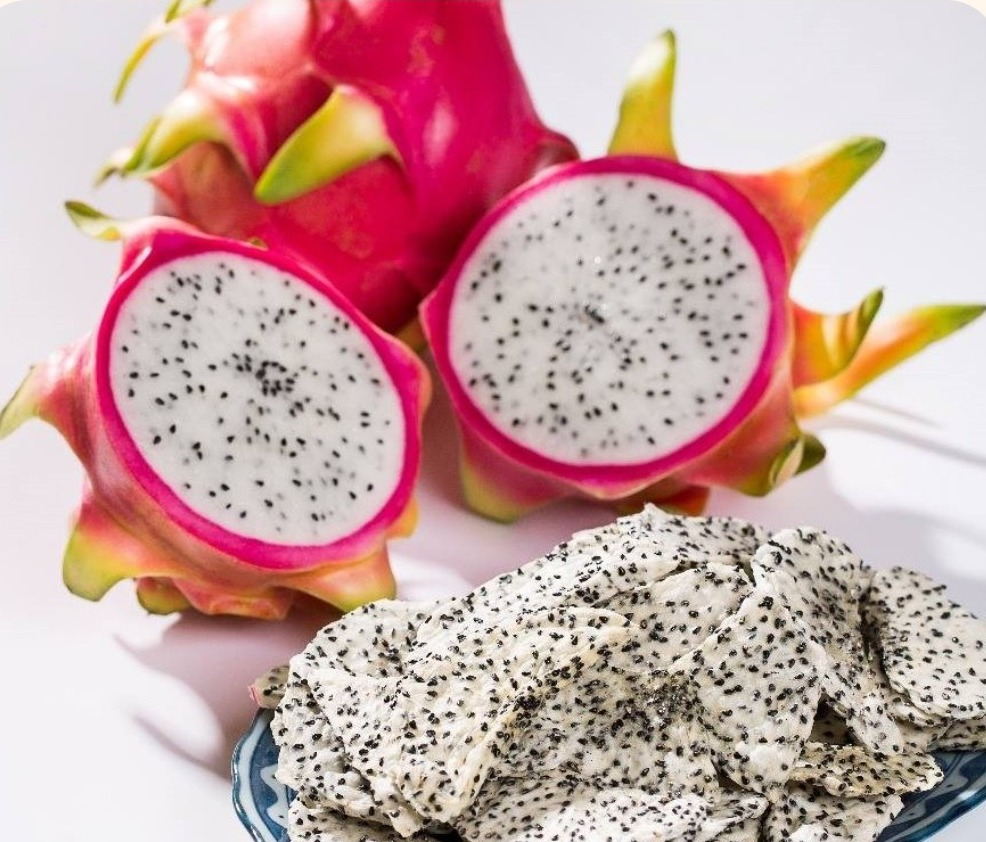
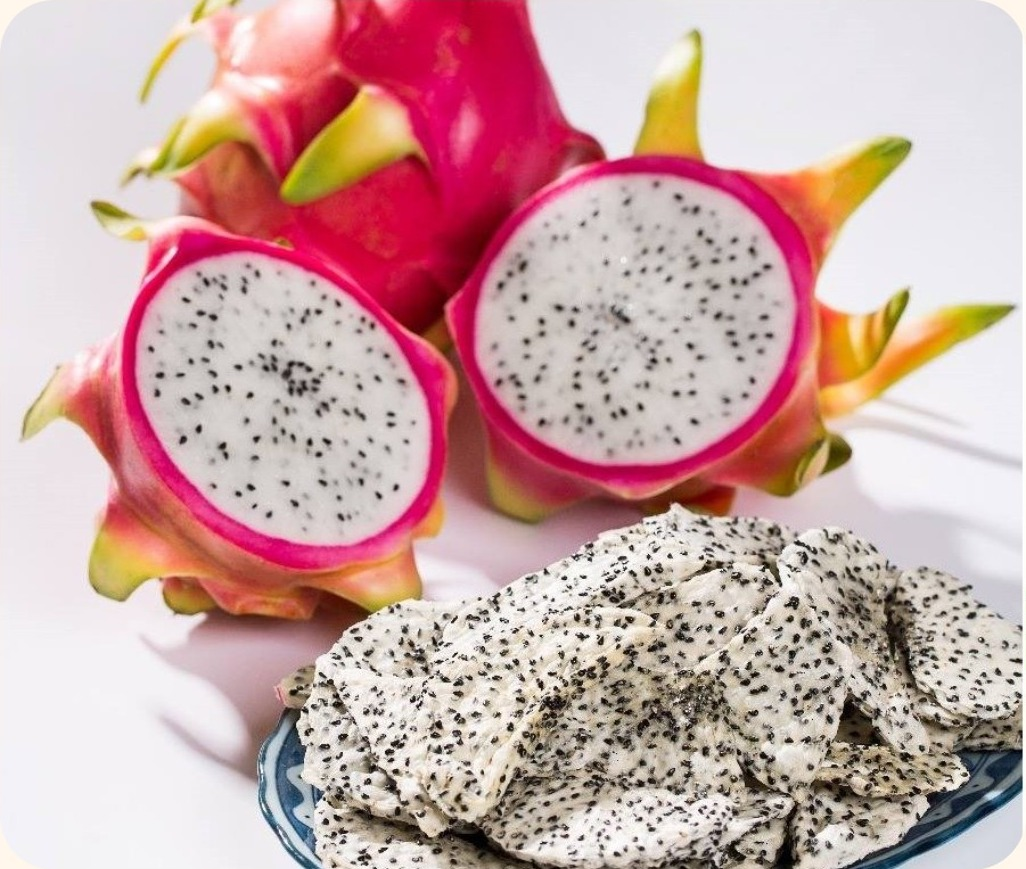
fix(hero): restore brochure page 1 landscape image ratio and framing

diff --git a/src/styles/global.css b/src/styles/global.css
@@ -763,7 +763,7 @@ h1, h2, h3, h4, h5, h6 {
 
 .hero-grid {
   display: grid;
-  grid-template-columns: minmax(0, 47.5fr) minmax(0, 52.5fr);
+  grid-template-columns: minmax(0, 46fr) minmax(0, 54fr);
   gap: var(--content-gap);
   align-items: center;
   position: relative;
@@ -1202,20 +1202,26 @@ h1, h2, h3, h4, h5, h6 {
 
 .hero-dual-photos {
   display: grid;
-  grid-template-columns: repeat(2, 1fr);
-  gap: clamp(20px, 1.8vw, 28px);
+  grid-template-columns: repeat(2, minmax(0, 1fr));
+  gap: clamp(16px, 1.6vw, 24px);
   align-items: stretch;
   width: 100%;
 }
 
 .hero-photo-tile {
   position: relative;
-  border-radius: 20px;
+  border-radius: clamp(20px, 1.6vw, 24px);
   overflow: hidden;
-  border: 5px solid var(--white);
+  border: 4px solid var(--white);
   box-shadow: 0 18px 38px -10px rgba(58, 36, 23, 0.16), 0 6px 14px -4px rgba(58, 36, 23, 0.08);
   background-color: var(--soft-beige);
-  aspect-ratio: 4 / 5;
+  aspect-ratio: 1026 / 869;
+  transition: transform var(--transition-base), box-shadow var(--transition-base);
+}
+
+.hero-photo-tile:hover {
+  transform: translateY(-2px);
+  box-shadow: 0 22px 44px -10px rgba(58, 36, 23, 0.2), 0 8px 18px -4px rgba(58, 36, 23, 0.1);
 }
 
 .hero-photo-tile picture {
@@ -1228,12 +1234,8 @@ h1, h2, h3, h4, h5, h6 {
   width: 100%;
   height: 100%;
   object-fit: cover;
+  object-position: center;
   display: block;
-  transition: transform 600ms var(--transition-base);
-}
-
-.hero-photo-tile:hover img {
-  transform: scale(1.04);
 }
 
 .badge-sugar-free {

diff --git a/src/pages/Home.tsx b/src/pages/Home.tsx
@@ -307,9 +307,8 @@ export const Home: React.FC = () => {
                           ? 'Xoài sấy dẻo VINAXO vàng óng tự nhiên'
                           : 'VINAXO golden soft-dried mango slices'
                       }
-                      style={{ objectPosition: '58% center' }}
-                      width={400}
-                      height={500}
+                      width={1026}
+                      height={869}
                     />
                   </picture>
                 </div>
@@ -324,9 +323,8 @@ export const Home: React.FC = () => {
                           ? 'Thanh long tươi và thanh long sấy tự nhiên VINAXO'
                           : 'Vietnamese fresh dragon fruit paired with dehydrated slices'
                       }
-                      style={{ objectPosition: 'center 42%' }}
-                      width={400}
-                      height={500}
+                      width={1026}
+                      height={869}
                     />
                   </picture>
                 </div>

diff --git a/src/styles/responsive.css b/src/styles/responsive.css
@@ -487,9 +487,9 @@
   }
 
   .hero-photo-tile {
-    border-radius: 16px !important;
+    border-radius: 20px !important;
     border-width: 4px !important;
-    aspect-ratio: 4 / 5 !important;
+    aspect-ratio: 1026 / 869 !important;
   }
 
   .hero-actions {
@@ -637,7 +637,8 @@
   }
 
   .hero-dual-photos {
-    gap: 10px !important;
+    grid-template-columns: repeat(2, minmax(0, 1fr)) !important;
+    gap: 18px !important;
   }
 
   .about-brochure-grid {
@@ -817,6 +818,16 @@
 
   .brochure-pdf-iframe {
     height: 440px !important;
+  }
+
+  .hero-dual-photos {
+    grid-template-columns: 1fr !important;
+    gap: 16px !important;
+  }
+
+  .hero-photo-tile {
+    border-radius: 22px !important;
+    aspect-ratio: 1026 / 869 !important;
   }
 
   .cert-showcase-grid,
